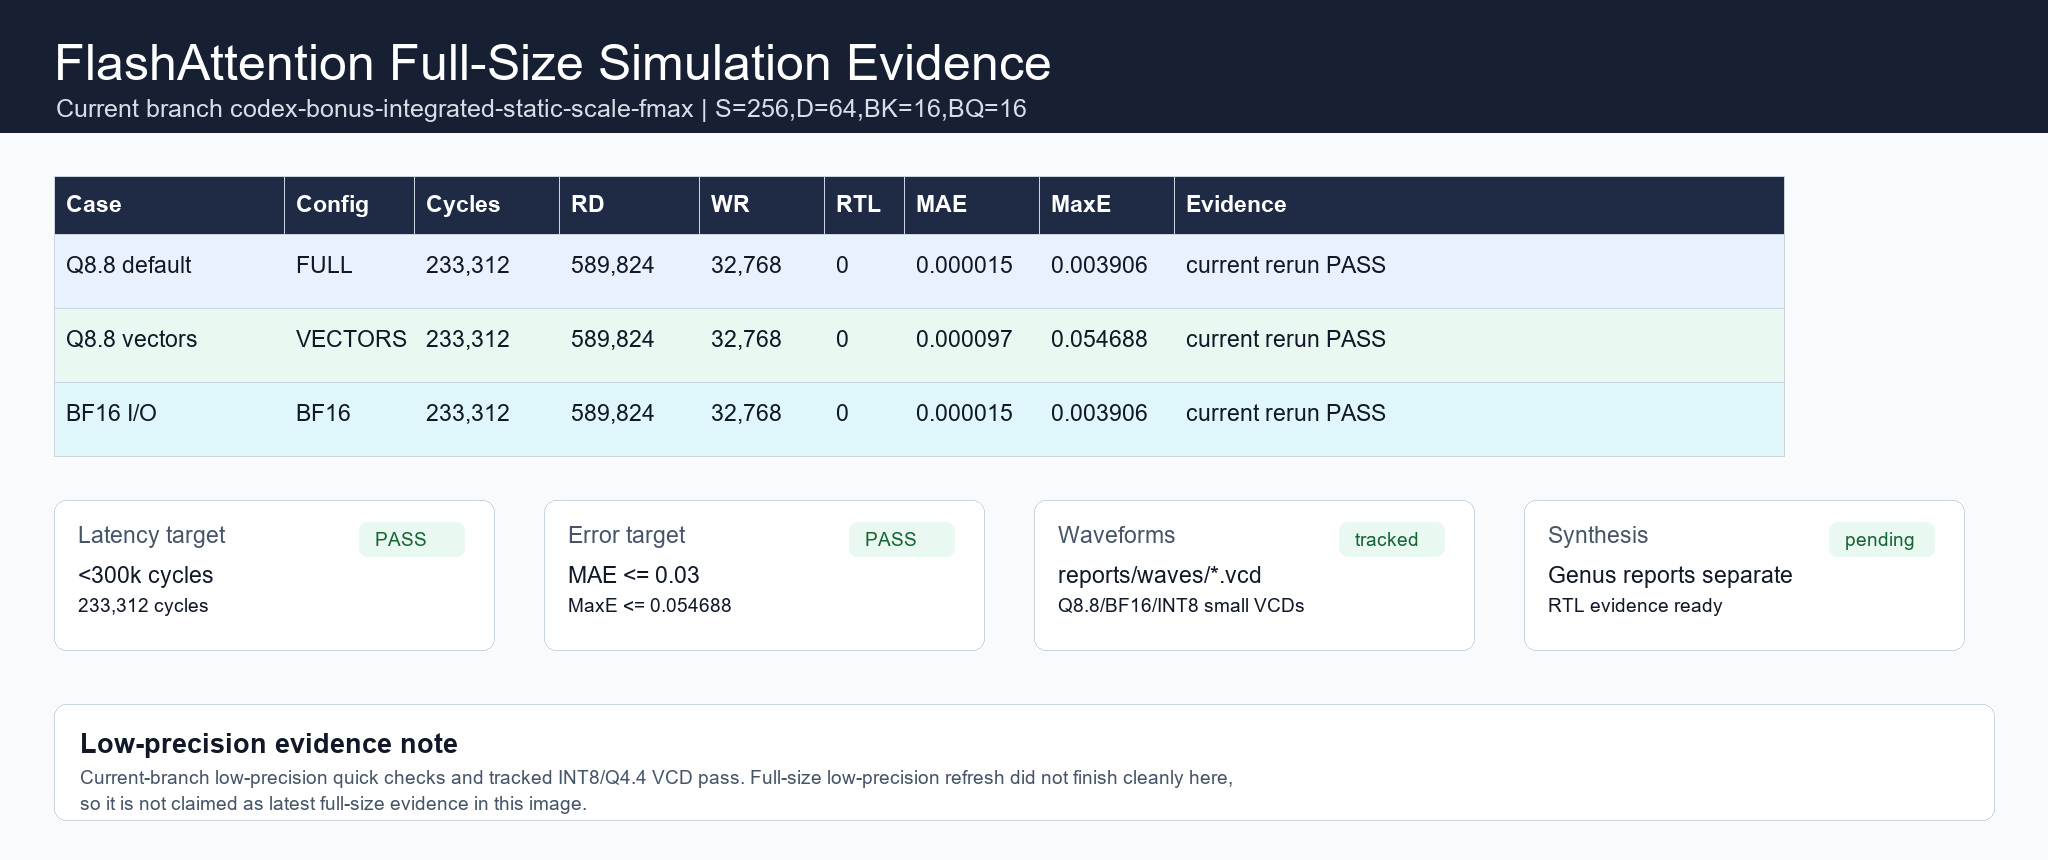
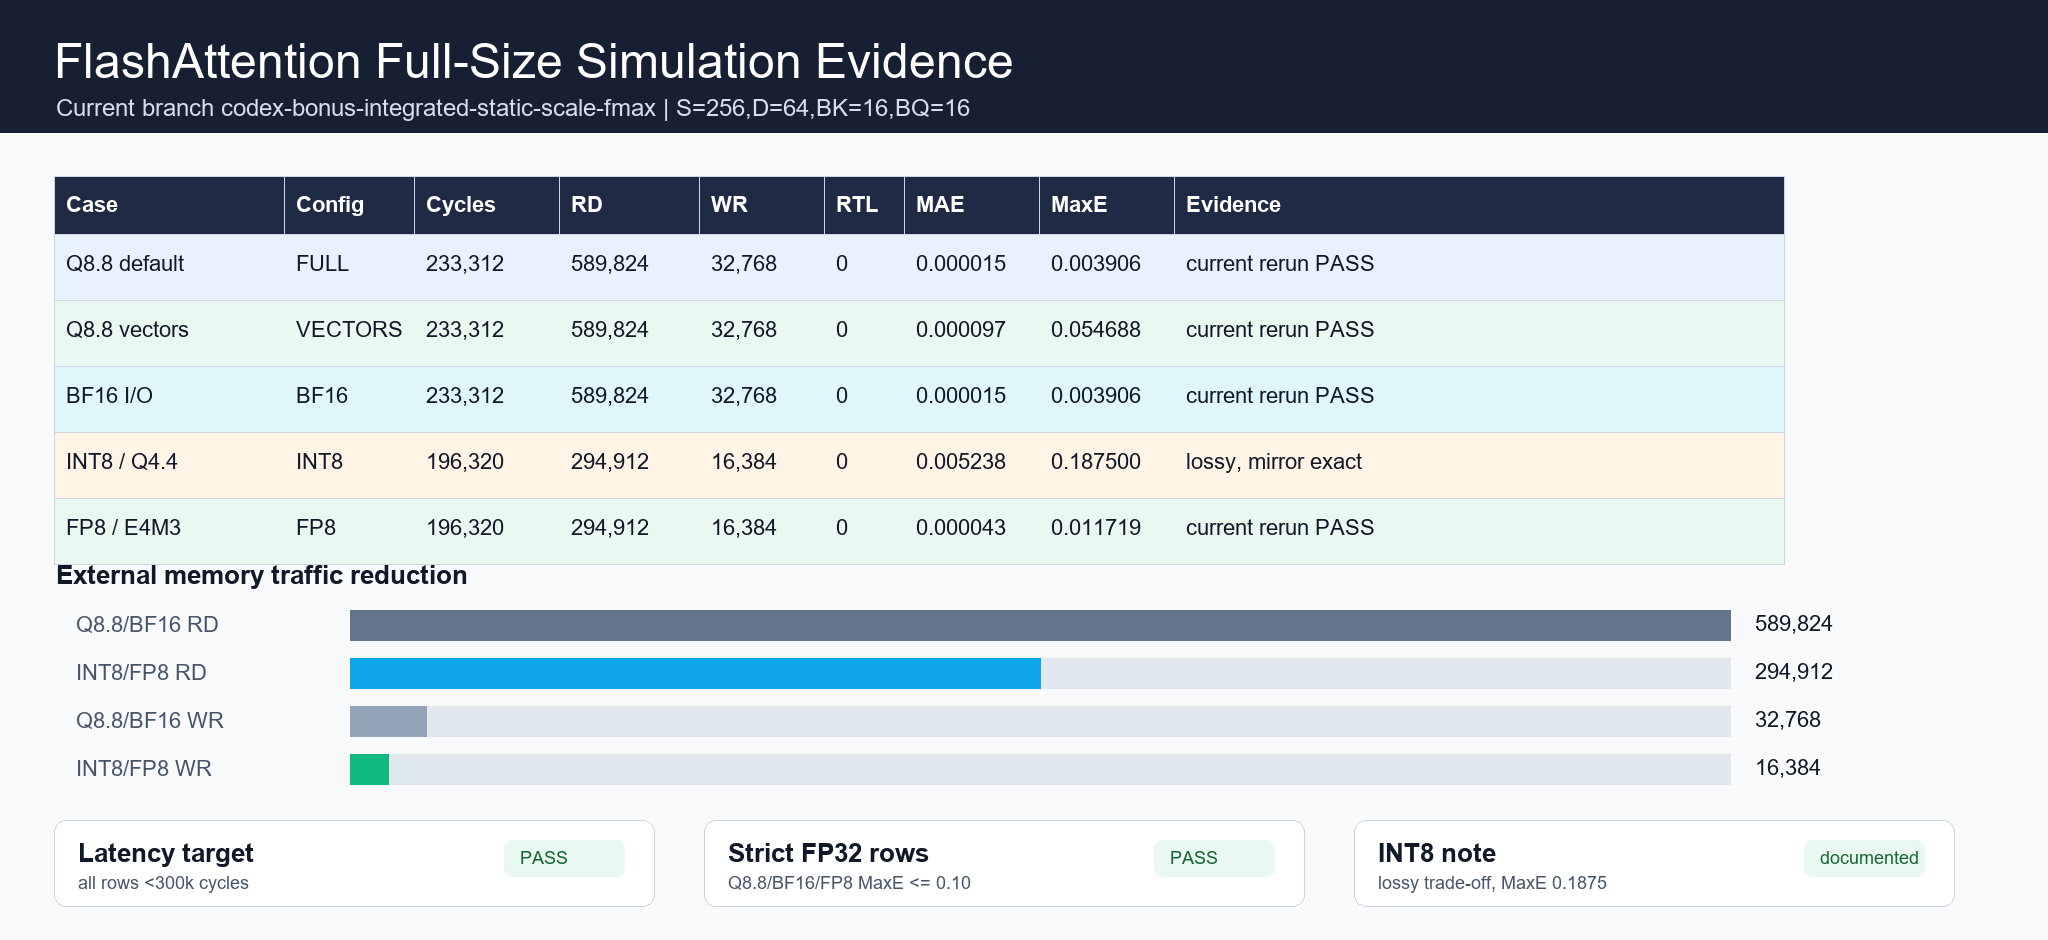
Record complete bonus simulation evidence

diff --git a/reports/full_evidence_run_2026-06-07.md b/reports/full_evidence_run_2026-06-07.md
@@ -1,0 +1,95 @@
+# Full Evidence Run 2026-06-07
+
+Branch: `codex-bonus-integrated-static-scale-fmax`
+Commit under test: `b5cd997`
+
+This file records the complete simulation evidence set for the current integrated bonus
+branch. Genus synthesis evidence is intentionally separate.
+
+## Core Regression Evidence
+
+| Command | Scope | Result |
+|---|---|---|
+| `./sim/run_top_compile.sh` | RTL compile smoke | PASS |
+| `./sim/run_bonus_all.sh` | Integrated quick bonus suite | PASS |
+| `RUN_FULL=1 ./sim/run_top_e2e_smoke.sh` | Default Q8.8 full-size generated tensors | PASS |
+| `RUN_VECTORS=1 ./sim/run_top_e2e_smoke.sh` | Default Q8.8 full-size supplied random vectors | PASS |
+| `RUN_FULL=1 ./sim/run_bonus_bf16_smoke.sh` | BF16 I/O full-size | PASS |
+
+## Full-Size Results
+
+| Case | Shape | Cycles | RD_BYTES | WR_BYTES | RTL MAE | RTL MaxE | FP32 MAE | FP32 MaxE | Note |
+|---|---:|---:|---:|---:|---:|---:|---:|---:|---|
+| Q8.8 default | S=256,D=64,BK=16,BQ=16 | 233312 | 589824 | 32768 | 0.000000 | 0.000000 | 0.000015 | 0.003906 | `RUN_FULL=1` |
+| Q8.8 random vectors | S=256,D=64,BK=16,BQ=16 | 233312 | 589824 | 32768 | 0.000000 | 0.000000 | 0.000097 | 0.054688 | `RUN_VECTORS=1` |
+| BF16 I/O | S=256,D=64,BK=16,BQ=16 | 233312 | 589824 | 32768 | 0.000000 | 0.000000 | 0.000015 | 0.003906 | external tensor/storage mode |
+| INT8/Q4.4 | S=256,D=64,BK=16,BQ=16 | 196320 | 294912 | 16384 | 0.000000 | 0.000000 | 0.005238 | 0.187500 | lossy low-precision bandwidth trade-off |
+| FP8/E4M3 | S=256,D=64,BK=16,BQ=16 | 196320 | 294912 | 16384 | 0.000000 | 0.000000 | 0.000043 | 0.011719 | half external tensor bytes |
+
+## Low-Precision Full-Size Commands
+
+The full-size low-precision cases were run as single direct VVP cases to avoid the Windows
+PowerShell/Git Bash pipeline timeout observed when the whole low-precision script was run as
+one long command.
+
+INT8/Q4.4 full-size:
+
+```powershell
+& 'D:\iverilog\bin\vvp.exe' `
+  sim_build\tb_flash_attn_top_e2e_lowprecision_s256_d64.vvp `
+  +OUT_HEX=sim_build\tb_flash_attn_top_e2e_lowprecision_s256_d64_direct_o.hex
+```
+
+Simulator PASS line:
+
+```text
+tb_flash_attn_top_e2e_smoke PASS S=256 D=64 BK=16 BQ=16 bitexact=0 cycles=196320 wait_cycles=174512 rd_bytes=294912 wr_bytes=16384
+```
+
+Checker:
+
+```text
+RTL output vs RTL fixed-point mirror:
+  MAE          = 0.000000
+  MaxE         = 0.000000
+RTL output vs FP32 softmax golden:
+  MAE          = 0.005238
+  MaxE         = 0.187500
+```
+
+FP8/E4M3 full-size:
+
+```powershell
+& 'D:\iverilog\bin\vvp.exe' `
+  sim_build\tb_flash_attn_top_e2e_fp8_s256_d64_direct.vvp `
+  +OUT_HEX=sim_build\tb_flash_attn_top_e2e_fp8_s256_d64_direct_o.hex
+```
+
+Simulator PASS line:
+
+```text
+tb_flash_attn_top_e2e_smoke PASS S=256 D=64 BK=16 BQ=16 bitexact=0 cycles=196320 wait_cycles=174512 rd_bytes=294912 wr_bytes=16384
+```
+
+Checker:
+
+```text
+RTL output vs RTL fixed-point mirror:
+  MAE          = 0.000000
+  MaxE         = 0.000000
+RTL output vs FP32 softmax golden:
+  MAE          = 0.000043
+  MaxE         = 0.011719
+```
+
+## Acceptance Notes
+
+Default Q8.8, random-vector Q8.8, BF16 I/O, and FP8/E4M3 satisfy the handout FP32 error
+threshold `MAE <= 0.03` and `MaxE <= 0.10`.
+
+INT8/Q4.4 is kept as a lossy low-precision exploration: it is exact against the RTL
+fixed-point mirror and halves external tensor traffic, but its FP32 `MaxE=0.187500` exceeds
+the baseline-quality threshold. It should be described as a bandwidth/precision trade-off,
+not as a strict replacement for Q8.8.
+
+All full-size cases listed above meet the latency target `<300000 cycles`.

diff --git a/reports/submission_evidence.md b/reports/submission_evidence.md
@@ -34,6 +34,7 @@ the static-scale baseline skeleton.
 | `RUN_FULL=1 ./sim/run_top_e2e_smoke.sh` | Full-size S=256,D=64,BK=16,BQ=16 default Q8.8 E2E | PASS |
 | `RUN_VECTORS=1 ./sim/run_top_e2e_smoke.sh` | Full-size S=256,D=64,BK=16,BQ=16 supplied random-vector E2E | PASS |
 | `RUN_FULL=1 ./sim/run_bonus_bf16_smoke.sh` | Full-size S=256,D=64,BK=16,BQ=16 BF16 I/O E2E | PASS |
+| Direct low-precision full-size VVP | Full-size S=256,D=64,BK=16,BQ=16 INT8/Q4.4 and FP8/E4M3 | PASS |
 
 Full-size result from the latest run:
 
@@ -42,6 +43,8 @@ Full-size result from the latest run:
 | Default generated tensors, S=256,D=64,BK=16,BQ=16 | 233312 | 589824 | 32768 | 0.000000 | 0.000000 | 0.000015 | 0.003906 |
 | Supplied random vectors, S=256,D=64,BK=16,BQ=16 | 233312 | 589824 | 32768 | 0.000000 | 0.000000 | 0.000097 | 0.054688 |
 | BF16 I/O tensors, S=256,D=64,BK=16,BQ=16 | 233312 | 589824 | 32768 | 0.000000 | 0.000000 | 0.000015 | 0.003906 |
+| INT8/Q4.4 tensors, S=256,D=64,BK=16,BQ=16 | 196320 | 294912 | 16384 | 0.000000 | 0.000000 | 0.005238 | 0.187500 |
+| FP8/E4M3 tensors, S=256,D=64,BK=16,BQ=16 | 196320 | 294912 | 16384 | 0.000000 | 0.000000 | 0.000043 | 0.011719 |
 
 Acceptance reference from the handout:
 
@@ -115,12 +118,13 @@ vvp sim_build/tb_flash_attn_top_e2e_lowprecision_s8_d8.vvp \
 4. Run `RUN_FULL=1 ./sim/run_top_e2e_smoke.sh` for default full-size evidence.
 5. Run `RUN_VECTORS=1 ./sim/run_top_e2e_smoke.sh` for supplied random-vector full-size evidence.
 6. Run `RUN_FULL=1 ./sim/run_bonus_bf16_smoke.sh` for BF16 I/O full-size evidence.
-7. Open the tracked VCD files under `reports/waves/` for waveform review.
-8. Attach fresh Genus reports separately after synthesis.
+7. Run the direct low-precision VVP cases recorded in `reports/full_evidence_run_2026-06-07.md`.
+8. Open the tracked VCD files under `reports/waves/` for waveform review.
+9. Attach fresh Genus reports separately after synthesis.
 
 ## Refresh Notes
 
-Current-branch low-precision quick checks and the tracked INT8/Q4.4 waveform pass. A
-full-size low-precision refresh was attempted during this evidence pass, but it did not
-finish cleanly and produced no usable PASS log, so low-precision full-size data is not
-claimed as latest-branch evidence here.
+Current-branch low-precision quick checks, tracked low-precision waveform, and direct
+low-precision full-size VVP cases pass. The combined low-precision script can still be slow
+or awkward under Windows shell pipelines, so the full-size evidence uses direct single-case
+VVP commands for reproducibility.

diff --git a/reports/bonus_results.md b/reports/bonus_results.md
@@ -78,14 +78,17 @@ is `reports/bonus_fullsize_summary.png`.
 | Q8.8 random-vector full-size | S=256,D=64,BK=16,BQ=16 | RUN_VECTORS=1, supplied random Q/K/V, latest branch run | PASS | 233312 | 589824 | 32768 | 0.000000 | 0.000097 | 0.054688 |
 | BF16 I/O full-size | S=256,D=64,BK=16,BQ=16 | BF16_IO_MODE=1, latest branch run | PASS | 233312 | 589824 | 32768 | 0.000000 | 0.000015 | 0.003906 |
 | Synthesis-friendly full-size | S=256,D=64,BK=16,BQ=16 | STATIC_SCALE_MODE=1,ENABLE_DROPOUT=0 | PASS | 233312 | 589824 | 32768 | 0.000000 | 0.000015 | 0.003906 |
+| INT8/Q4.4 low-precision full-size | S=256,D=64,BK=16,BQ=16 | DATA_W=8,FRAC_W=4, direct VVP latest branch run | PASS | 196320 | 294912 | 16384 | 0.000000 | 0.005238 | 0.187500 |
+| FP8/E4M3 low-precision full-size | S=256,D=64,BK=16,BQ=16 | FP8_E4M3_MODE=1, direct VVP latest branch run | PASS | 196320 | 294912 | 16384 | 0.000000 | 0.000043 | 0.011719 |
 
 Tracked VCD-enabled smoke runs are available under `reports/waves/`; compact preview images
 are available under `reports/`.
 
-Low-precision full-size comparison rows from earlier report drafts were intentionally not
-claimed as latest-branch full-size evidence in this revision. Current-branch low-precision
-quick checks and the tracked INT8/Q4.4 VCD pass, but the full-size low-precision refresh did
-not finish cleanly during this evidence pass.
+Low-precision full-size cases were run as direct single-case VVP commands after the full
+script pipeline timed out on Windows. FP8/E4M3 meets the baseline FP32 error threshold while
+halving external tensor bytes. INT8/Q4.4 is exact against the RTL mirror and reduces external
+traffic, but it is intentionally documented as a lossy bandwidth/precision exploration because
+its FP32 MaxE exceeds 0.10.
 
 The synthesis-friendly full-size row was run with `sim/run_bonus_synth_timing_smoke.sh`. It
 keeps the same default Q8.8 external behavior while making the direct `flash_attn_top`

diff --git a/reports/bonus_completion_matrix.md b/reports/bonus_completion_matrix.md
@@ -16,7 +16,7 @@ the default baseline path available and rerunnable.
 | 4 | Padding mask | Ported | AXI-Lite `VALID_LEN`, causal corner cases, and invalid-row zeroing. |
 | 5 | Other fixed-point formats | Ported | Q6.10/Q4.12 top E2E smoke with checker support. |
 | 6 | Dropout training mode | Ported | Deterministic mask, dropout scale, RTL mirror, and FP32 checker evidence. |
-| 7 | INT8/FP8 lower precision | Ported | INT8/Q4.4 and FP8/E4M3 top E2E smoke; FP8 converts at DMA boundary while default Q8.8 remains unchanged. |
+| 7 | INT8/FP8 lower precision | Ported | INT8/Q4.4 and FP8/E4M3 top E2E smoke plus full-size direct VVP evidence; FP8 converts at DMA boundary while default Q8.8 remains unchanged. |
 | 8 | AXI4-Stream interface | Ported | Stream wrapper smoke through `sim/run_bonus_axis_stream_smoke.sh`. |
 | 9 | DMA/task queue | Ported | `TASK_COUNT=2` smoke verifies chained START/DONE flow and per-task writes. |
 | 10 | Other optimization | Not claimed | Baseline optimization is not counted as a separate optional bonus. |
@@ -50,6 +50,7 @@ Inherited from `codex-baseline-ppa-fix`:
 | Low-precision quick checks | `sim/run_bonus_lowprecision_int8_smoke.sh` |
 | BF16 I/O quick checks | `sim/run_bonus_bf16_smoke.sh` |
 | Synthesis-friendly full-size random-vector check | `sim/run_bonus_synth_timing_smoke.sh` |
+| Full evidence run record | `reports/full_evidence_run_2026-06-07.md` |
 
 Default Q8.8 smoke after the bonus ports must remain at the static-scale skeleton values
 `S=8 -> 335 cycles` and `S=32 -> 3528 cycles`.